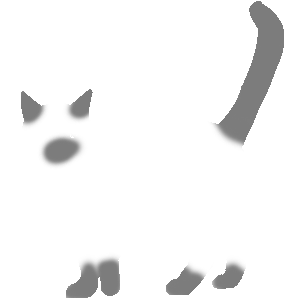
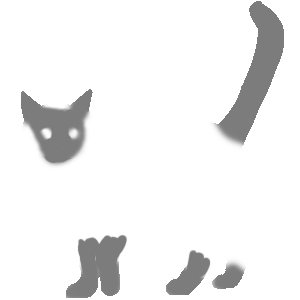
more

Changed region(s): [[0.09, 0.33, 0.3, 0.54], [0.24, 0.78, 0.42, 0.9], [0.6, 0.81, 0.72, 0.93]]

diff --git a/show_cat.js b/show_cat.js
@@ -35,7 +35,9 @@ document.addEventListener('DOMContentLoaded', () => {
         const isSilver = inputs.Igen !== 'i/i';
         const isRed = inputs.redGen.includes('XO');
         const isTortie = inputs.redGen === 'XO/Xo';
-        const isPointed = inputs.Cgen === 'cs/cs' || inputs.Cgen === 'cs/cb';
+        const isPointed = inputs.Cgen === 'cs/cs';
+        const isMink = inputs.Cgen === 'cs/cb';
+        const isSepia = inputs.Cgen === 'cb/cb';
         const hasWhiteSpotting = inputs.Sgen === 'S/s' || inputs.Sgen === 'S/S';
 
         // Helper booleans for conditions that prevent color expression
@@ -100,6 +102,12 @@ document.addEventListener('DOMContentLoaded', () => {
         // This only runs for NON-TORTIE pointed cats. Calico points are handled by their own special overlay.
         if (isPointed && !isTortie && !hasColorHidden) {
             layers.push('overlay_point.png');
+        }
+        if (isMink && !isTortie && !hasColorHidden) {
+            layers.push('overlay_mink.png');
+        }
+        if (isSepia && !isTortie && !hasColorHidden) {
+            layers.push('overlay_sepia.png');
         }
         
         // ** E. Wideband (Golden) Overlay Layer **
